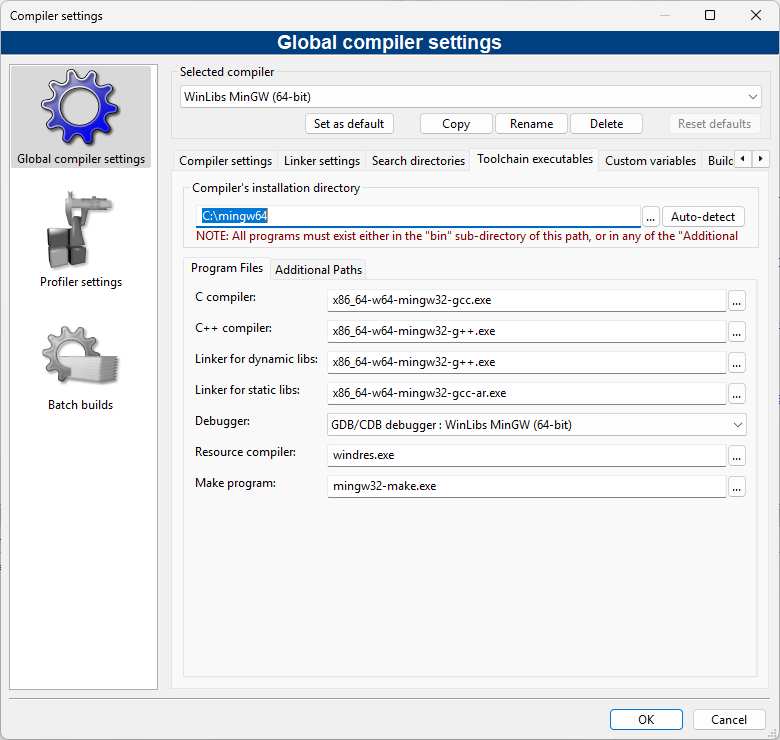
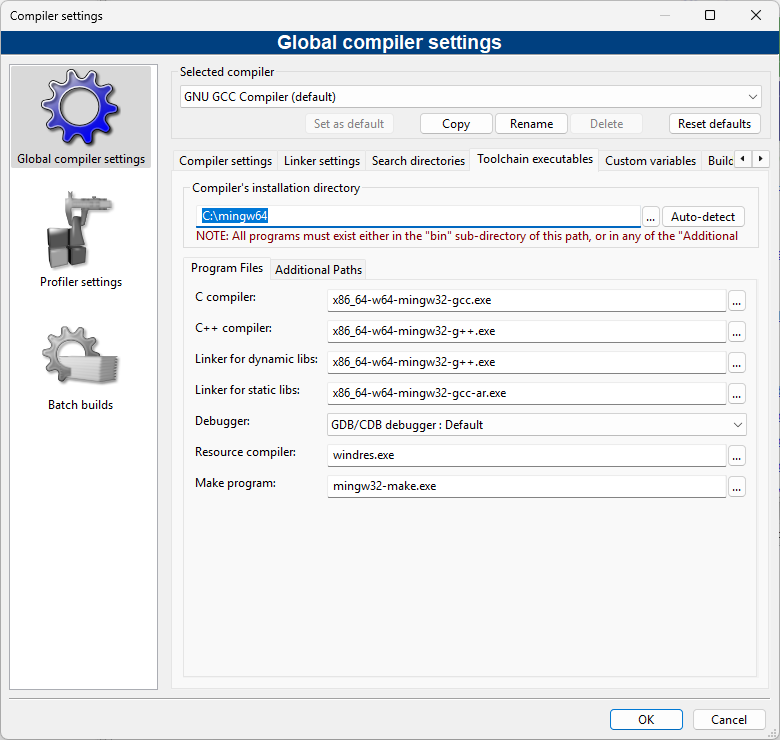
Major updates on README.

diff --git a/README.md b/README.md
@@ -8,15 +8,16 @@
 
 **This repository hold a special version of the official Code::Blocks 25.03 stable release modified for adding full support of DreamSDK.**
 
+If you are interested about Code::Blocks but not in Sega Dreamcast development using DreamSDK, you may use the official Code::Blocks release then. But if you are interested in Sega Dreamcast development using DreamSDK AND regular development, you can use this special edition of Code::Blocks without any issue, as the changes performed in this fork are not destructive, they only applies in DreamSDK profile.
+
 Notables changes of this special release of **Code::Blocks** includes:
 
 * New compiler/options file (`dc-gcc`) which specify the `GNU GCC Compiler for Sega Dreamcast` compiler.
 * The `compiler` and `debugger` plugins have been patched to run the loader (i.e. `dc-tool`) before running the target.
 * The `Sega Dreamcast Project` (`dc`) wizard template has been added.
 
-If you are interested about Code::Blocks but not in Sega Dreamcast development using DreamSDK, then we can use this version if you want to, or you can simply use the regular Code::Blocks program.
-
-**Note:** a new `sdk` (`codeblocks.dll`) module is needed to expose the required `CallHooks()` function in the *Squirrel* script, that's why almost all compiled binaries are provided in the generated patch.
+The changes are located in the **Code:Blocks** source in the `sdk`, `Compiler` and `Debugger` projects.
+The new `sdk` (`codeblocks.dll`) module is needed to expose the required `CallHooks()` function in the *Squirrel* script (used to refresh the IDE while using the `dc` profile), that's why almost all compiled binaries are provided in the generated patch.
 
 ## Introduction
 
@@ -48,6 +49,7 @@ These **are not** provided in this repository but could be easily downloaded:
 - [7-Zip](http://www.7-zip.org).
 - [Boost 1.87.0](http://www.boost.org/users/history/version_1_87_0.html).
 - [Code::Blocks](https://www.codeblocks.org) (**yes, for building Code::Blocks you will need Code::Blocks**).
+- [DreamSDK](https://www.dreamsdk.org) (this is not required for building Code::Blocks but will be for testing the special release that we will build using this repository).
 
 ### Install WinLibs toolchains
 
@@ -59,16 +61,17 @@ Just unzip the 2 WinLibs toolchains in the drive root, usually `C:\`:
 
 1. Make sure `zip` and `upx` are available in your `PATH` variable.
 2. Install [7-Zip](http://www.7-zip.org) using the default settings and make sure `7z` is available in your `PATH` variable.
-3. Install [Code::Blocks](https://www.codeblocks.org) with the default settings. It's easiest to install Code::Blocks in 64-bit if you plan to compile the 64-bit version; do the same for the 32-bit version, although it's not required. This document will assume you'll follow this rule.
+3. Download [Code::Blocks](https://www.codeblocks.org) without the embedded compiler, as we will use our own. Install it with the default settings. It's easiest to install Code::Blocks in 64-bit if you plan to compile the 64-bit version (i.e., `codeblocks-25.03-setup.exe`); do the same for the 32-bit version (i.e., `codeblocks-25.03mingw-32bit-setup.exe`), although it's not required. This document will assume you'll follow this rule.
+4. Install [DreamSDK](https://www.dreamsdk.org) using the default settings.
 
 ### Building wxMSW
 
-After installing all the prerequisites, you need to build **wxWidgets for Windows**, i.e. **wxMSW**. You only need to do that once; fortunately because this process is really very long (even if it runs multiple jobs using the `-j` switch for `make`).
+After installing all the prerequisites, you need to build **wxWidgets for Windows**, i.e. **wxMSW**. You only need to do that once; fortunately because this process is really very long.
 
 1. Open the `.\wxMSW\build.ini` file and adapt it as needed.
 2. Double-click on the `.\wxMSW\build.cmd` file.
 
-The `.\wxMSW\bin` directory will be created, that will contains both `debug` and `release` binaries, both on 32-bit and 64-bit.
+The `.\wxMSW\bin` directory will be created, that will contains both `debug` and `release` wxWidgets for Windows builds, both on 32-bit and 64-bit flavours.
 
 ### Installing Boost
 
@@ -88,39 +91,72 @@ This section explains how to install Boost for Code::Blocks; and it assumes that
 		bootstrap gcc
 		b2 install --toolset=gcc "--prefix=%CODEBLOCKS_ROOT%" boost.stacktrace.from_exception=off
 
-After running those commands, Boost is indeed installed, but we need to configure Code::Blocks IDE, as explained below.
+After running those commands, Boost is indeed installed. Now we need to configure Code::Blocks IDE, as explained below.
 
 ### Configuring Code::Blocks IDE
 
-To build **Code::Blocks** you will need **Code::Blocks**.
-Install the IDE then unzip both toolchains if not already done (see above). Now, it's necessary to configure Debuggers and Compilers in Code::Blocks.
+To build **Code::Blocks** you will indeed need **Code::Blocks**.
+Install the IDE without the embedded MinGW compiler (as it isn't needed) then unzip both WinLibs toolchains if not already done (see above). Now, it's necessary to configure Debuggers and Compilers in Code::Blocks.
+
+As always, this section assumes that you are setting up things for 64-bit, but adjust the settings if necessary.
 
 #### Configure Debuggers in Code::Blocks
 
-[You can follow the official guide from WinLibs for configuring Debuggers and Compilers](https://winlibs.com/#usage-codeblocks).
+1. Select the **Settings** > **Debugger** menu item in Code::Blocks.
+2. Click on **GDB/CDB debugger** then **Default**.
+3. In Executable path, input the correct GNU Debugger (GDB) binary: `C:\mingw64\bin\gdb.exe`
+4. Click **OK**.
 
-Select the **Settings** > **Debugger** menu item in Code::Blocks. Here, nothing fancy, you just have to select the correct GNU Debugger (GDB) binary:
+Result:
 ![Debugger Settings in Code::Blocks](./rsrc/debugger.png)
+
+**Note:** [This part has been written using the WinLibs official guide as base](https://winlibs.com/#usage-codeblocks).
 
 #### Configure Compilers in Code::Blocks
 
-Select the **Settings** > **Compiler** menu item in Code::Blocks. You have to configure the compiler as described in the [WinLibs guide](https://winlibs.com/#usage-codeblocks).
+1. Select the **Settings** > **Compiler** menu item in Code::Blocks.
+2. Select the **GNU GCC Compiler (default)** profile in the list if not already done.
+3. Click on **Toolchain eXecutables** and input `C:\mingw64` in **Compiler's installation directory**.
+4. In the **Program files** sub-tab, input the following:
+    - **C compiler:** `x86_64-w64-mingw32-gcc.exe`
+    - **C++ compiler:** `x86_64-w64-mingw32-g++.exe`
+    - **Linker for dynamic libraries:** `x86_64-w64-mingw32-g++.exe`
+    - **Linker for static libraries:** `x86_64-w64-mingw32-gcc-ar.exe`
+    - **Debugger:** Select `GDB/CDB debugger: Default` as configured before
+    - **Resource compiler:** This won't be used but you can set `windres.exe` here
+    - **Make program:** `mingw32-make.exe`
+
+Result:
 ![Compiler Settings / Toolchain executables in Code::Blocks](./rsrc/compiler1.png)
 
 Then, select the options forcing the build of static binaries. If not doing so, you will be forced to redistribute MinGW-w64 runtime libraries (DLL), something that we don't want for Code::Blocks.
-Select `Static libgcc`, `Static libstdc++` and `Static linking`:
+
+5. Click on **Compiler settings** tab.
+6. The General section should be displayed. Scroll down in the window, then tick the following boxes:
+    - `Static libgcc [-static-libgcc]`
+	- `Static libstdc++ [-static-libstdc++]`
+	- `Static linking [-static]`
+	
+Result:
 ![Compiler Settings / Compiler Flags in Code::Blocks](./rsrc/compiler2.png)
+
+You can now validate the **Compiler settings** dialog by clicking **OK**.
 
 #### Global Variables configuration
 
 After making this configuration, you can open the Code::Blocks IDE project in Code::Blocks.
 
 Start **Code::Blocks** then open the `.\codeblocks\codeblocks\src\CodeBlocks_wx32_64.workspace` file for 64-bit build or the `CodeBlocks_wx32.workspace` file for 32-bit build.
-This will open the `CodeBlocks Workspace wx3.2.x (64 bit)` workspace.
+
+As always in this document, we will consider that you want to build the 64-bit release, so we will open the `CodeBlocks_wx32_64.workspace` file. This will open the `CodeBlocks Workspace wx3.2.x (64 bit)` workspace in your Code::Blocks IDE.
 
 The **Global Variables** window should be shown automatically, if not, select the **Settings** > **Global Variables** menu item in Code::Blocks. Select (or create) the following variables:
-- For the `wx32_64` variable, enter `.\wxMSW\bin\${arch}\debug` in the `base` field, where `${arch}` will be `x86` or `x64` (e.g. `C:\codeblocks\wxMSW\bin\x64\debug`).
-- For the `cb_release_type` variable, enter `-g -O0` in the `base` field.    
+- For the `wx32_64` variable: 
+    - In the `base` field, enter `${root}\wxMSW\bin\${arch}\release`, where `${root}` is the directory path where this repository is stored and `${arch}` will be `x86` or `x64` (e.g. `C:\codeblocks\wxMSW\bin\x64\release` if you cloned this in `C:\codeblocks`).
+	- In the `include` field, enter `${root}\wxMSW\bin\${arch}\release\include` (e.g., `C:\codeblocks-25.03\wxMSW\bin\x64\release\include`)
+	- In the `lib` field, enter `${root}\wxMSW\bin\${arch}\release\lib` (e.g., `C:\codeblocks-25.03\wxMSW\bin\x64\release\lib`)
+	- In the `bin` field, enter `${root}\wxMSW\bin\${arch}\release\bin` (e.g., `C:\codeblocks-25.03\wxMSW\bin\x64\release\bin`)
+- For the `cb_release_type` variable, enter `-g -O0` in the `base` field. This means that we will first build a Code::Blocks Debug build (see below).
 - For the `boost` variable:
 	- In the `base` directory field, enter `C:\Program Files\CodeBlocks`.
 	- In the `include` field, enter `C:\Program Files\CodeBlocks\include\boost-1_87`.
@@ -129,42 +165,54 @@ The **Global Variables** window should be shown automatically, if not, select th
 Here is an example of the **Global Variables** window filled in:
 ![Global Variables in Code::Blocks](./rsrc/variables.png)
 
+**Note regarding wx32_64**: In practice, we will use only the `release` build of wxMSW, as we won't debug wxMSW itself. But if for some reasons, you want to use the Debug builds of wxMSW, then input `${root}\wxMSW\bin\${arch}\debug` in `base` field (and do the adaptations for the rest). You will need to update the `WX_SUFFIX` project variable in all projects using wxMSW:
+1. Click on **Project** > **Build options...**.
+2. Click on the **Custom Variables** tab.
+3. In the **Variables** list, select the `WX_SUFFIX` variable and click on **Edit**.
+4. In the **Value** field, input `ud` (for Unicode/Debug).
+![Update WX_SUFFIX variable in Code::Blocks](./rsrc/wxsuffix.png)
+5. Validate everything by clicking **OK**.
+
+This `WX_SUFFIX` variable need to be updated on all projects using wxMSW, so it could be really long to update.
+
 ## Debug build
 
-You can now try to build Code::Blocks.
+You can now try to build Code::Blocks IDE in Debug mode.
+
+Again, this part of the document assumes that 64-bit Code::Blocks will be built under WinLibs MinGW 64-bit toolchain.
 
 ### Making a Code::Blocks debug build
 
-1. Make your changes in the **Code:Blocks** source (basically in `sdk`, `Compiler` and `Debugger` targets).
-2. Select the **Settings** > **Global Variable** menu item then select the `cb_release_type` variable and enter `-g -O0` in the `base` field.
-3. autorevision.h??
-4. Rebuild the [the whole workspace](http://wiki.codeblocks.org/index.php/Installing_Code::Blocks_from_source_on_Windows).
-5. Run the `.\codeblocks\src\update.bat` file.
+1. Open the `.\codeblocks\codeblocks\src\CodeBlocks_wx32_64.workspace` if not already done.
+2. Select the **Settings** > **Global Variables** menu item, select the `cb_release_type` variable and enter `-g -O0` in the `base` field, if not already done.
+3. Rebuild the [the whole workspace](http://wiki.codeblocks.org/index.php/Installing_Code::Blocks_from_source_on_Windows). Basically, you may right-click in the `CodeBlocks Workspace wx3.2.x (64 bit)` root node and select **Rebuild workspace**.
+4. The debug build is stored in `.\codeblocks\src\devel32_64`. 
+
+You will have to copy the wxMSW libraries now, but this will be done only once (or as soon as you have to rebuild wxMSW for some reason). Copy the `wxmsw32u_gcc_custom.dll` and `wxmsw32u_gl_gcc_custom.dll` files in the `.\codeblocks\src\devel32_64` directory. If you are using Debug release of wxMSW, then of course you will copy the `wxmsw32ud_gcc_custom.dll` and `wxmsw32ud_gl_gcc_custom.dll` files instead.
 
 ### Running and debugging your Code::Blocks build
 
-If you want to debug the **Code::Blocks** build, select the `src` target and install a **DreamSDK** working package in `E:\DreamSDK\`.
-If you don't have an `E:` drive, you have to do some modifications:
+If you want to debug the **Code::Blocks** build, you must first install a **DreamSDK** working package in `C:\DreamSDK\`. If you don't have an `C:` drive (really?!), you have to do some changes:
 
 1. Change the `DREAMSDK_HOME_DEBUG_DRIVE` variable in `.\packager\mkpkg.cmd`.
-2. Change the `E:` drive reference in the two files below:
-
+2. Change the `C:` drive reference in the 2 files below:
 	- `.\codeblocks\src\plugins\compilergcc\resources\compilers\compiler_dc-gcc.xml`
 	- `.\codeblocks\src\plugins\compilergcc\resources\compilers\options_dc-gcc.xml`
-
-3. In the debugged **Code::Blocks**, go to the **Settings** > **Compiler** menu, 
+3. You can now run/debug the produced Code::Blocks IDE by using the left or right arrows in the toolbar.
+![Toolbar in Code::Blocks](./rsrc/toolbar.png)
+4. In the debugged **Code::Blocks** (and NOT your regular Code::Blocks you used to build this special edition!), go to the **Settings** > **Compiler** menu, 
 select the **GNU GCC Compiler for Sega Dreamcast** profile and click on **Reset defaults**.
 **Code::Blocks** should detect the **DreamSDK** package environment used for debug your **Code::Blocks** build.
-4. The GNU Debugger (GDB) included in the latest release of **TDM-GCC** is buggy: some breakpoints are never reached. You should use a newer GNU Debugger (GDB) binary, for example the one included in **DreamSDK** (i.e. `E:\DreamSDK\bin\gdb.exe`). To change that, you may update the Debugger profile inside Code::Blocks (in the `Settings` menu).
 
 ## Release build
 
 ### Making a Code::Blocks release build
 
-2. Select the **Settings** > **Global Variable** menu item then select the `cb_release_type` variable and enter `-O2` in the `base` field.
-3. Change the content of the `.\codeblocks\src\include\autorevision.h` file. In normal conditions, this file is created automatically when using **SVN** and the `autorevision` tool. Or you may just create this `autorevision.h` file manually. The SVN revision `11983` is the official revision for the `25.03` release.
+1. Open the `.\codeblocks\codeblocks\src\CodeBlocks_wx32_64.workspace` if not already done.
+2. Select the **Settings** > **Global Variables** menu item then select the `cb_release_type` variable and enter `-O2` in the `base` field.
+3. Change the content of the `.\codeblocks\src\include\autorevision.h` file. In normal conditions, this file is created automatically when using **SVN** and the `autorevision` tool. Or you may just create this `autorevision.h` file manually. The SVN revision `13644` is the official revision for the `25.03` release.
 
-		/*11983*/
+		/*13644*/
 		//don't include this header, only configmanager-revision.cpp should do this.
 		#ifndef AUTOREVISION_H
 		#define AUTOREVISION_H
@@ -174,8 +222,8 @@ select the **GNU GCC Compiler for Sega Dreamcast** profile and click on **Reset 
 	
 		namespace autorevision
 		{
-			const unsigned int svn_revision = 11983;
-			const wxString svnRevision(_T("11983"));
+			const unsigned int svn_revision = 13644;
+			const wxString svnRevision(_T("13644"));
 			const wxString svnDate(_T("YYYY-MM-DD hh:mm:ss")); // update manually the date/time using this format
 		}
 	
@@ -184,33 +232,29 @@ select the **GNU GCC Compiler for Sega Dreamcast** profile and click on **Reset 
 		#endif
 
 
-4. Rebuild the [the whole workspace](http://wiki.codeblocks.org/index.php/Installing_Code::Blocks_from_source_on_Windows).
-5. Run the `.\codeblocks\src\update.bat` file.
+4. Rebuild the [the whole workspace](http://wiki.codeblocks.org/index.php/Installing_Code::Blocks_from_source_on_Windows). Basically, you may right-click in the `CodeBlocks Workspace wx3.2.x (64 bit)` root node and select **Rebuild workspace**.
+5. Run the `.\codeblocks\src\update32_64.bat` file.
+
+The release build is stored in `.\codeblocks\src\output32_64`.
+
+**Note:** The wxMSW libraries are automatically copied from `devel32_64`, so you don't have to manually copy these libraries.
 
 ### Making the final package that will be embedded in Code::Blocks Partcher for DreamSDK
 
 After building the **Code::Blocks** release, you need to build the package that will be embedded in the **Code::Blocks Patcher for DreamSDK**.
 
-1. Build Code::Blocks in Release mode (i.e. `cb_release_type` variable should be `-O2`) and run the `.\codeblocks\src\update.bat` file.
+1. Follow the instructions for building a Release build (see above), if not already done.
 2. Go to the `.\packager` directory.
 3. From there, run the `mkpkg.cmd` file.
-4. Build the `.\cbpatcher\src\splash\codeblocks-splash.lpi` in **Release** mode from **Lazarus**, then pack the `.\cbpatcher\src\engine\embedded\codeblocks-splash.exe` file with **UPX**.
-5. Build the `.\cbpatcher\src\codeblocks-patcher.lpi` in **Release** mode from **Lazarus**. No need to pack this with **UPX**.
-6. Done! You should have now the `codeblocks-patcher.exe` file which can be embedded in the **DreamSDK Setup** file. Don't be surprised, it's a big file around `10MB`.
 
 ## FAQ
 
 ### Unable to debug the compiled Code::Blocks? ###
 
-Sometimes, the breakpoints are never reached while compiling with **TDM-GCC-32** including **GCC 5.1.0**.
-
-Please verify the following:
-
-* The `cb_release_type` global variable should be set to `-g -O0` in order to activate debug symbols.
-* Sometimes the **GDB** version included in **TDM-GCC-32** is buggy. Try to use another **GDB** build (like the one included in **DreamSDK** itself).
+Sometimes, the breakpoints are never reached. Please verify you made a Debug build of Code::Blocks by checking the `cb_release_type` global variable: it should be set to `-g -O0` in order to activate debug symbols.
 
 ### Couldn't add an image to the image list. ###
 
 This message is sometimes shown when starting the debug build of **Code::Blocks**. It caused by missing image files in the `.\codeblocks\src\devel\share\CodeBlocks\images\` directory.
 
-To solve this issue, you just have to run the `.\codeblocks\src\update.bat` file, this will copy the missing files to the `devel` and `output` directories.
+To solve this issue, you just have to run the `.\codeblocks\src\update32_64.bat` file, this will copy the missing files to the `devel32_64` and `output32_64` directories.
